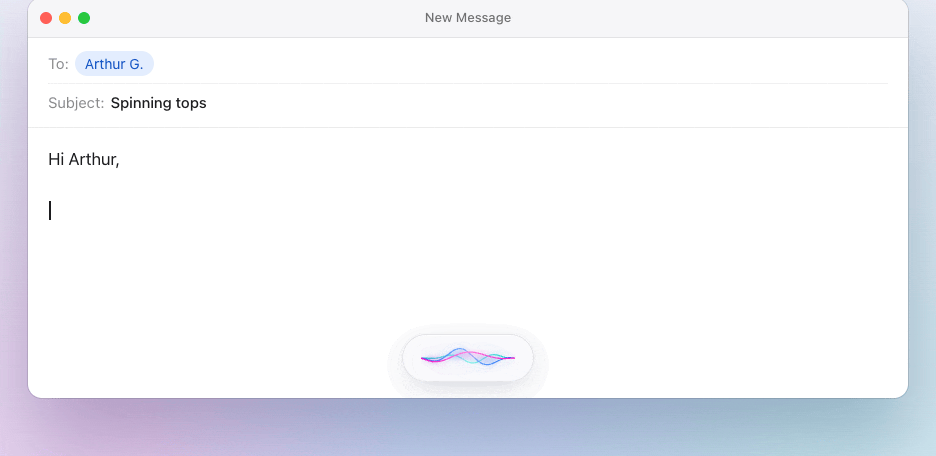
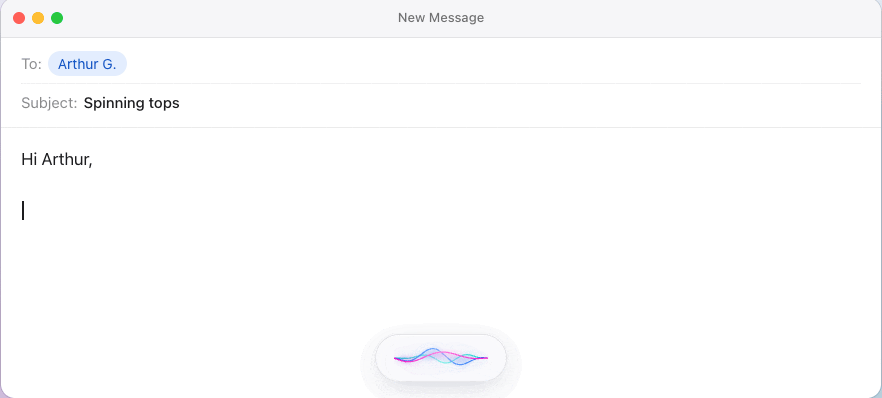
fix(site): share image shows the Mail window alone, on its shadow

Changed region(s): [[0.0, 0.0302, 1.0, 1.0], [0.4592, 0.7538, 0.551, 0.8141], [0.4286, 0.0302, 0.551, 0.0603]]

diff --git a/docs/assets/og/og.html b/docs/assets/og/og.html
@@ -14,12 +14,12 @@
       #fbfbfd;
     display: flex;
     align-items: center;
-    gap: 44px;
-    padding: 0 0 0 64px;
+    gap: 34px;
+    padding: 0 36px 0 56px;
     box-sizing: border-box;
     -webkit-font-smoothing: antialiased;
   }
-  .text { flex: 0 0 430px; }
+  .text { flex: 0 0 410px; }
   .brand { display: flex; align-items: center; gap: 16px; margin-bottom: 34px; }
   .brand img { width: 72px; height: 72px; border-radius: 17px; box-shadow: 0 4px 14px rgba(0,0,0,0.12); }
   .brand span { font-size: 38px; font-weight: 700; letter-spacing: -0.02em; }
@@ -30,13 +30,15 @@
     -webkit-background-clip: text; color: transparent;
   }
   p { font-size: 23px; line-height: 1.4; color: #6e6e73; margin: 0; }
+  /* The Mail window alone, cut out of the demo, floating on its shadow. */
   .shot {
-    flex: 1;
-    height: 400px;
-    border-radius: 18px 0 0 18px;
-    background: url(demo-frame.png) left center / cover no-repeat;
-    box-shadow: 0 24px 60px rgba(30, 30, 60, 0.18);
+    flex: none;
+    width: 664px;
+    border-radius: 11px;
+    overflow: hidden;
+    box-shadow: 0 36px 80px rgba(30, 30, 60, 0.32), 0 8px 24px rgba(30, 30, 60, 0.12), 0 0 0 1px rgba(0, 0, 0, 0.07);
   }
+  .shot img { display: block; width: 100%; height: auto; }
 </style>
 </head>
 <body>
@@ -45,6 +47,6 @@
     <h1>Hold control, speak, <em>release.</em></h1>
     <p>Free, open-source dictation for Mac. Clean text wherever you type. Your voice never leaves the Mac.</p>
   </div>
-  <div class="shot"></div>
+  <div class="shot"><img src="demo-frame.png" alt=""></div>
 </body>
 </html>
